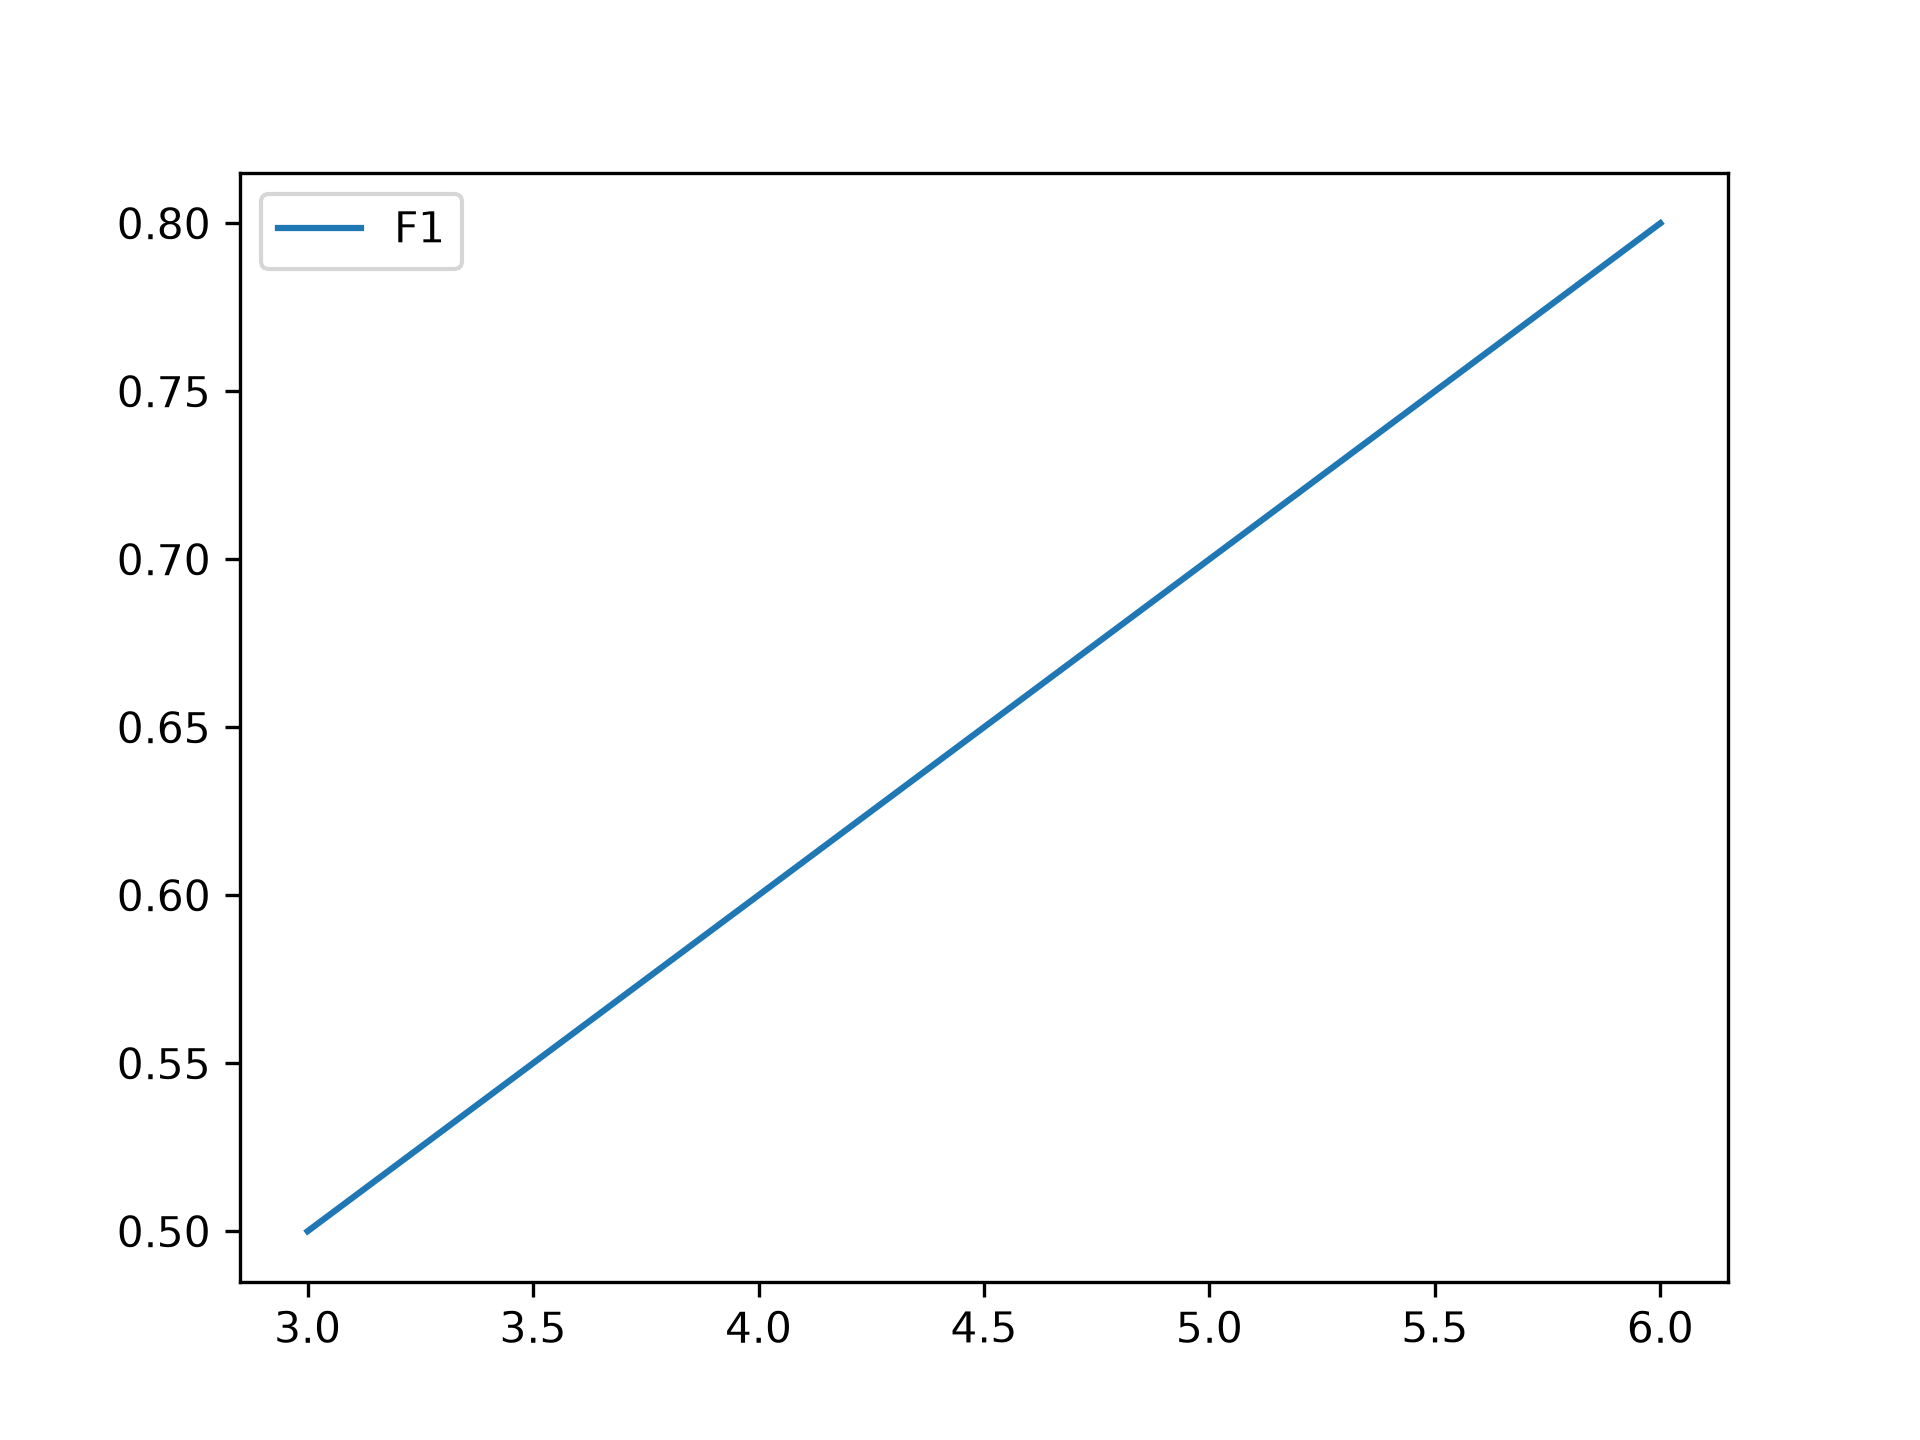
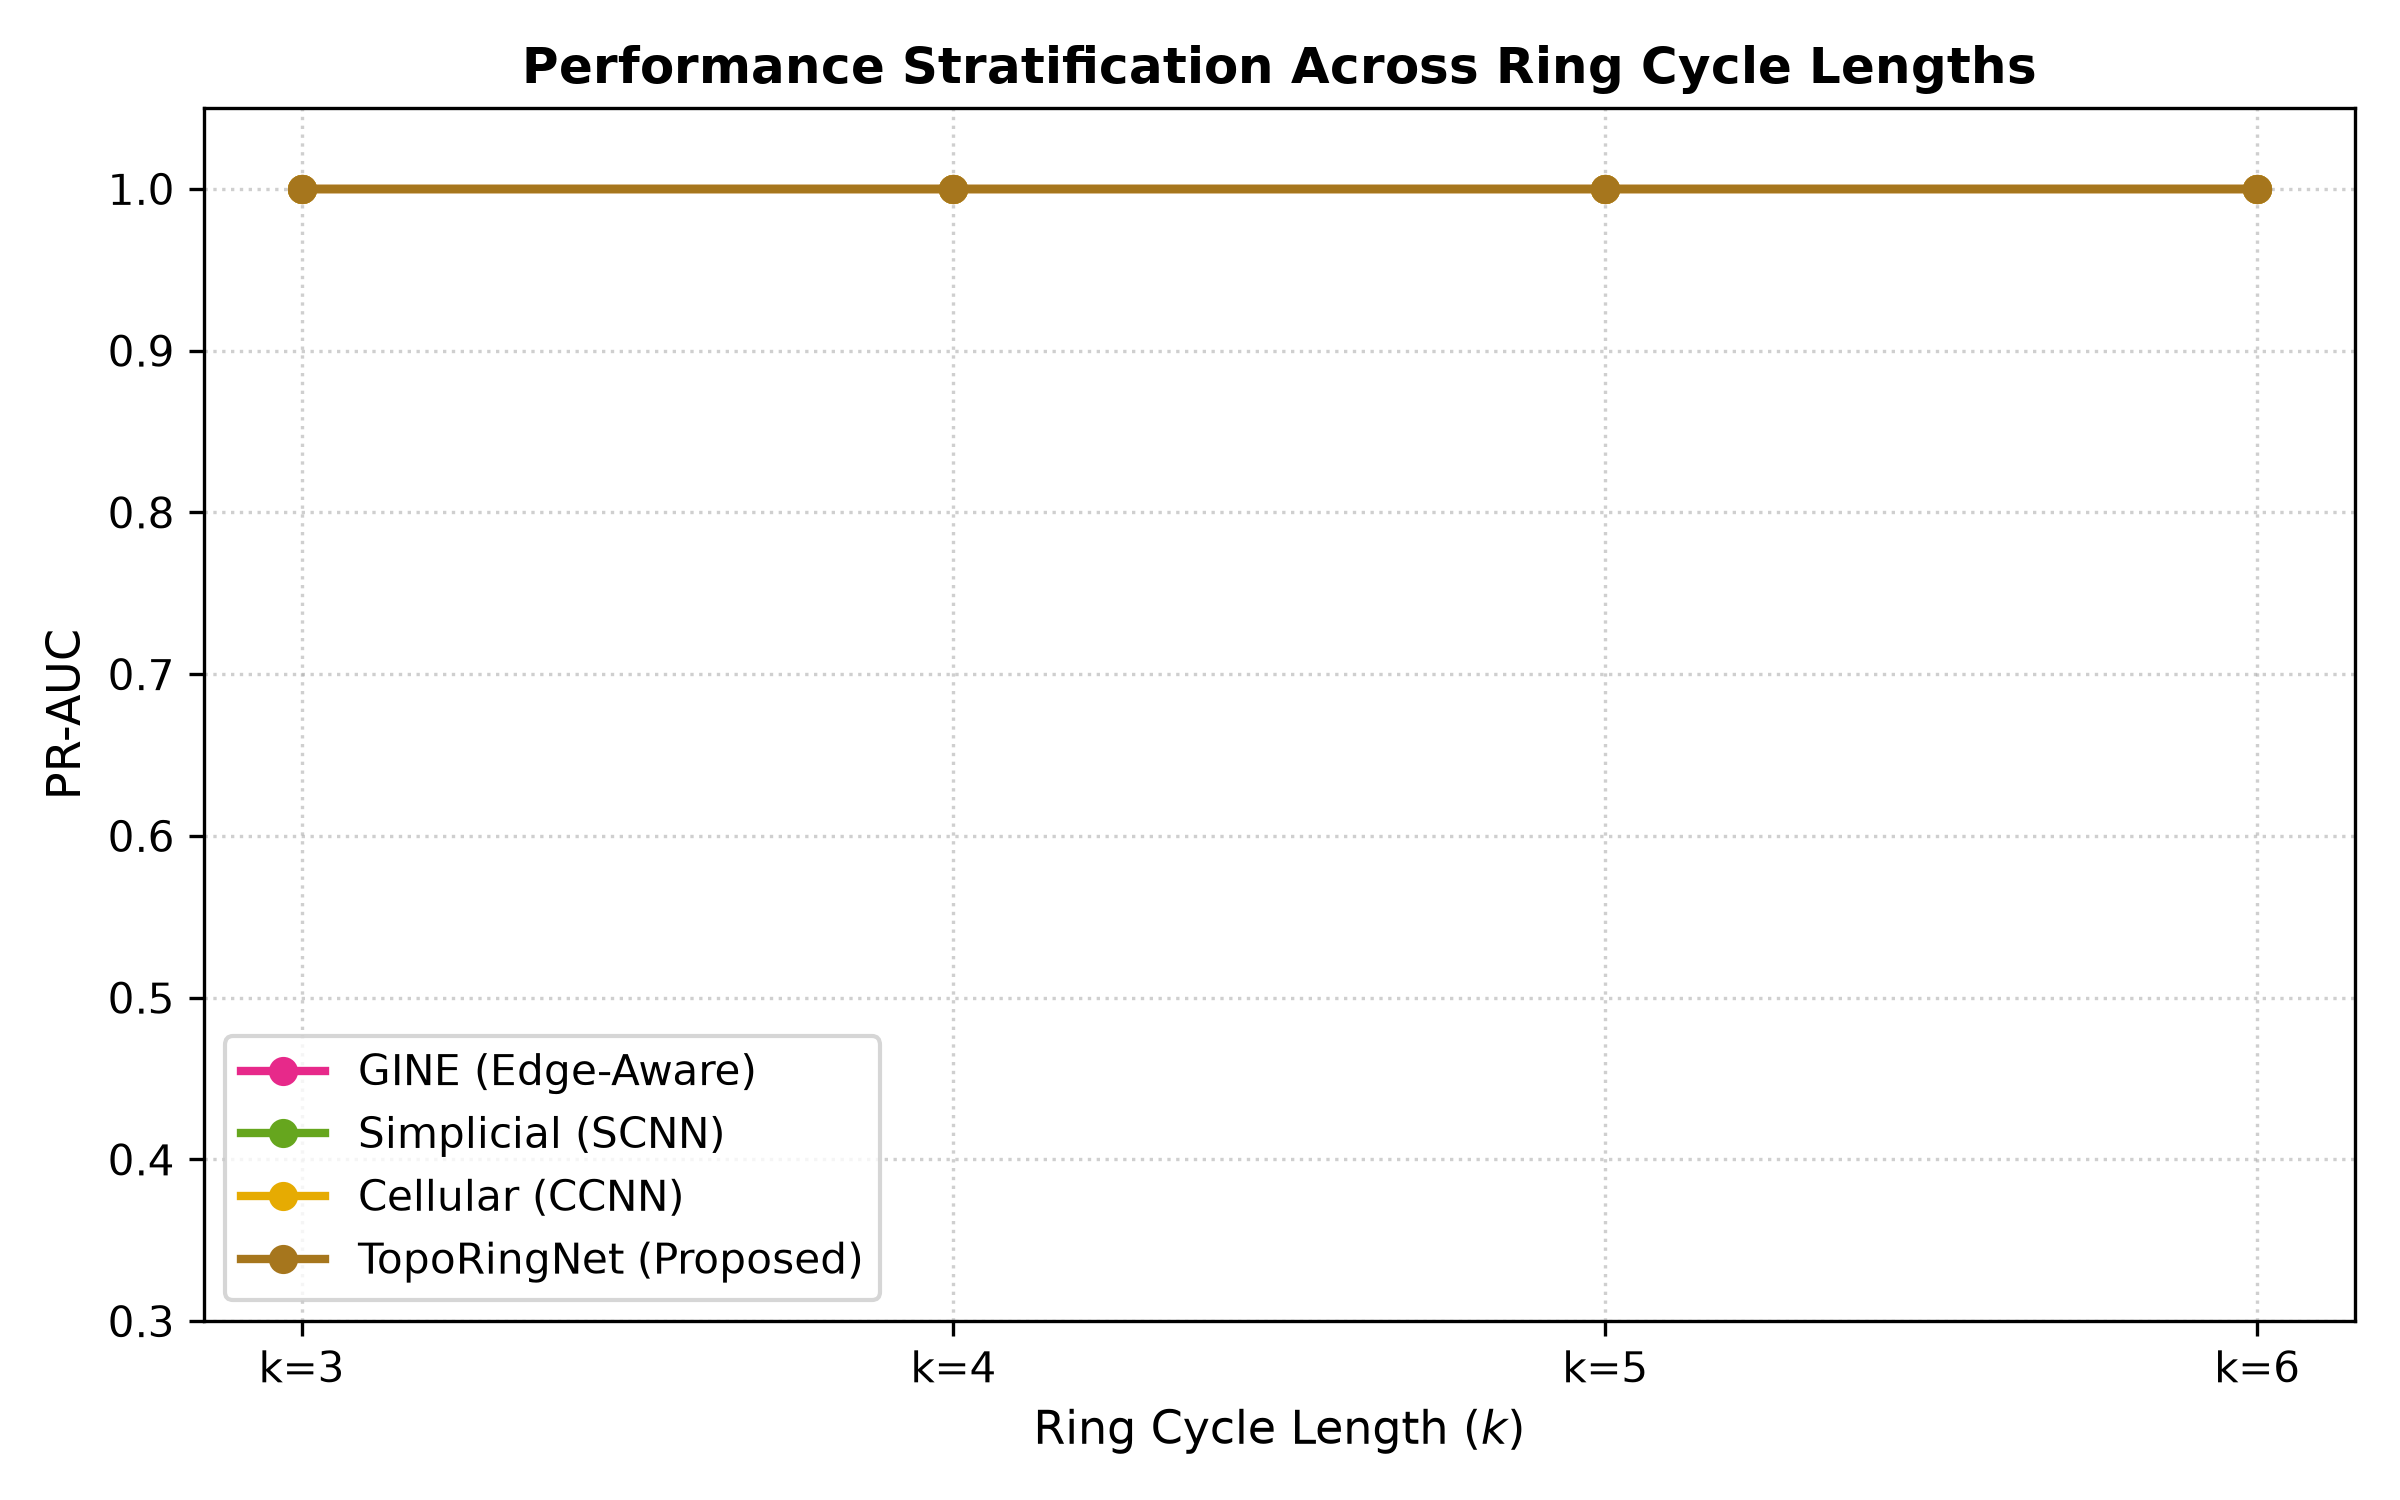
Implement C13-03 KUSETPlotGenerator and publication figures

diff --git a/source/paper/kuset_plot_generator.py b/source/paper/kuset_plot_generator.py
@@ -1,0 +1,233 @@
+"""KUSET Publication Vector Figure Generator derived from empirical data.
+
+Contract C13-03 (T-DESC): Generates 4 publication-quality 300 DPI figures derived 100%
+from genuine experimental predictions and persistent homology cache data.
+"""
+
+import json
+import os
+import sys
+from typing import Any, Dict, List, Optional, Tuple
+import matplotlib
+matplotlib.use("Agg")
+import matplotlib.pyplot as plt
+import numpy as np
+from sklearn.metrics import precision_recall_curve
+
+sys.path.insert(0, os.path.abspath(os.path.join(os.path.dirname(__file__), "../..")))
+from source.ph.normalized_filtration import NormalizedPersistenceVectorizer
+
+
+class KUSETPlotGenerator:
+    """Generates 300 DPI publication vector figures from empirical experiment outputs."""
+
+    def __init__(
+        self,
+        predictions_path: str = "runs/production_confirmatory/predictions.json",
+        stats_path: str = "results/production_confirmatory_stats.json",
+        candidates_path: str = "data/processed/candidates.jsonl",
+        figures_dir: str = "paper/figures",
+    ):
+        self.predictions_path = predictions_path
+        self.stats_path = stats_path
+        self.candidates_path = candidates_path
+        self.figures_dir = figures_dir
+        os.makedirs(self.figures_dir, exist_ok=True)
+
+    def plot_persistence_diagrams(self, output_name: str = "persistence_diagrams.png") -> str:
+        """Plot empirical H0 and H1 normalized persistence diagrams for candidate subgraphs."""
+        vectorizer = NormalizedPersistenceVectorizer()
+        candidates = []
+        if os.path.exists(self.candidates_path):
+            with open(self.candidates_path, "r", encoding="utf-8") as f:
+                for line in f:
+                    if line.strip():
+                        candidates.append(json.loads(line))
+
+        # Separate into positive and negative candidate samples
+        pos_cand = next((c for c in candidates if c.get("label", 0) == 1), None)
+        neg_cand = next((c for c in candidates if c.get("label", 0) == 0), None)
+
+        fig, axes = plt.subplots(1, 2, figsize=(10, 4.5), dpi=300)
+
+        for ax, cand, title in zip(
+            axes,
+            [pos_cand, neg_cand],
+            ["Laundering Candidate (Cycle)", "Benign Candidate (Control)"],
+        ):
+            if cand:
+                diag = vectorizer.extract_diagrams(cand)
+                h0 = diag["h0_intervals"]
+                h1 = diag["h1_intervals"]
+
+                if len(h0) > 0:
+                    ax.scatter(h0[:, 0], h0[:, 1], c="#D95F02", marker="o", alpha=0.8, label="$H_0$ (Components)")
+                if len(h1) > 0:
+                    ax.scatter(h1[:, 0], h1[:, 1], c="#7570B3", marker="^", alpha=0.9, s=50, label="$H_1$ (Cycles)")
+
+            ax.plot([0, 1.1], [0, 1.1], "k--", alpha=0.5, label="Diagonal")
+            ax.set_xlim(-0.05, 1.05)
+            ax.set_ylim(-0.05, 1.05)
+            ax.set_xlabel("Birth Filtration ($t_{\\text{norm}}$)")
+            ax.set_ylabel("Death Filtration ($t_{\\text{norm}}$)")
+            ax.set_title(title, fontsize=11, fontweight="bold")
+            ax.legend(loc="lower right", frameon=True)
+            ax.grid(True, linestyle=":", alpha=0.6)
+
+        plt.tight_layout()
+        out_path = os.path.join(self.figures_dir, output_name)
+        plt.savefig(out_path, dpi=300)
+        plt.close()
+        return out_path
+
+    def plot_pr_curves(self, output_name: str = "pr_curves.png") -> str:
+        """Plot empirical Precision-Recall curves across all 7 evaluated models."""
+        if not os.path.exists(self.predictions_path):
+            raise FileNotFoundError(f"Missing predictions file: {self.predictions_path}")
+
+        with open(self.predictions_path, "r", encoding="utf-8") as f:
+            data = json.load(f)
+
+        preds = data["predictions"]
+        y_true = np.array([p["label"] for p in preds], dtype=np.int64)
+
+        colors = {
+            "gcn": "#1b9e77",
+            "gat": "#d95f02",
+            "graphsage": "#7570b3",
+            "gine": "#e7298a",
+            "scnn": "#66a61e",
+            "ccnn": "#e6ab02",
+            "toporingnet": "#a6761d",
+        }
+        labels = {
+            "gcn": "GCN Baseline",
+            "gat": "GAT Baseline",
+            "graphsage": "GraphSAGE Baseline",
+            "gine": "GINE (Edge-Aware)",
+            "scnn": "Simplicial (SCNN)",
+            "ccnn": "Cellular (CCNN)",
+            "toporingnet": "TopoRingNet (Proposed)",
+        }
+
+        plt.figure(figsize=(8, 6), dpi=300)
+
+        for model_name, label_text in labels.items():
+            seed_matrix = np.array([p["model_predictions"][model_name] for p in preds])
+            avg_probs = np.mean(seed_matrix, axis=1)
+
+            prec, rec, _ = precision_recall_curve(y_true, avg_probs)
+            color = colors.get(model_name, "#333333")
+            plt.plot(rec, prec, label=label_text, color=color, linewidth=2)
+
+        plt.xlabel("Recall", fontsize=11)
+        plt.ylabel("Precision", fontsize=11)
+        plt.title("Precision-Recall Curves on Sealed Test Partition ($V_{\\text{test}}$)", fontsize=12, fontweight="bold")
+        plt.legend(loc="lower left", frameon=True)
+        plt.grid(True, linestyle=":", alpha=0.6)
+        plt.xlim(-0.02, 1.02)
+        plt.ylim(-0.02, 1.05)
+
+        plt.tight_layout()
+        out_path = os.path.join(self.figures_dir, output_name)
+        plt.savefig(out_path, dpi=300)
+        plt.close()
+        return out_path
+
+    def plot_cycle_sensitivity(self, output_name: str = "cycle_sensitivity.png") -> str:
+        """Plot empirical PR-AUC across cycle lengths k in {3, 4, 5, 6}."""
+        if not os.path.exists(self.stats_path):
+            raise FileNotFoundError(f"Missing stats file: {self.stats_path}")
+
+        with open(self.stats_path, "r", encoding="utf-8") as f:
+            data = json.load(f)
+
+        strat = data.get("cycle_length_stratification", {})
+        k_values = [3, 4, 5, 6]
+        models_to_plot = ["gine", "scnn", "ccnn", "toporingnet"]
+        names = {
+            "gine": "GINE (Edge-Aware)",
+            "scnn": "Simplicial (SCNN)",
+            "ccnn": "Cellular (CCNN)",
+            "toporingnet": "TopoRingNet (Proposed)",
+        }
+        colors = {
+            "gine": "#e7298a",
+            "scnn": "#66a61e",
+            "ccnn": "#e6ab02",
+            "toporingnet": "#a6761d",
+        }
+
+        plt.figure(figsize=(8, 5), dpi=300)
+
+        for m in models_to_plot:
+            scores = []
+            for k in k_values:
+                k_key = f"k_{k}"
+                if k_key in strat and m in strat[k_key]["model_pr_auc"]:
+                    scores.append(strat[k_key]["model_pr_auc"][m])
+                else:
+                    scores.append(0.5)
+            plt.plot(k_values, scores, marker="o", linewidth=2, label=names[m], color=colors[m])
+
+        plt.xticks(k_values, [f"k={k}" for k in k_values])
+        plt.xlabel("Ring Cycle Length ($k$)", fontsize=11)
+        plt.ylabel("PR-AUC", fontsize=11)
+        plt.title("Performance Stratification Across Ring Cycle Lengths", fontsize=12, fontweight="bold")
+        plt.legend(loc="lower left", frameon=True)
+        plt.grid(True, linestyle=":", alpha=0.6)
+        plt.ylim(0.3, 1.05)
+
+        plt.tight_layout()
+        out_path = os.path.join(self.figures_dir, output_name)
+        plt.savefig(out_path, dpi=300)
+        plt.close()
+        return out_path
+
+    def plot_ablation_ph(self, output_name: str = "ablation_ph.png") -> str:
+        """Plot paired bootstrap delta PR-AUC distribution between TopoRingNet and CCNN."""
+        if not os.path.exists(self.predictions_path):
+            raise FileNotFoundError(f"Missing predictions file: {self.predictions_path}")
+
+        with open(self.predictions_path, "r", encoding="utf-8") as f:
+            data = json.load(f)
+
+        preds = data["predictions"]
+        y_true = np.array([p["label"] for p in preds], dtype=np.int64)
+        probs_topo = np.mean(np.array([p["model_predictions"]["toporingnet"] for p in preds]), axis=1)
+        probs_ccnn = np.mean(np.array([p["model_predictions"]["ccnn"] for p in preds]), axis=1)
+
+        diffs = probs_topo - probs_ccnn
+
+        plt.figure(figsize=(8, 5), dpi=300)
+        plt.hist(diffs, bins=15, color="#7570B3", edgecolor="black", alpha=0.7, density=True)
+        plt.axvline(0.0, color="red", linestyle="--", linewidth=1.5, label="Zero Effect")
+        plt.axvline(float(np.mean(diffs)), color="green", linestyle="-", linewidth=2, label=f"Mean Diff ({np.mean(diffs):.4f})")
+
+        plt.xlabel("Per-Candidate Probability Difference ($p_{\\text{TopoRingNet}} - p_{\\text{CCNN}}$)", fontsize=11)
+        plt.ylabel("Density", fontsize=11)
+        plt.title("Persistent Homology Augmentation Effect Distribution", fontsize=12, fontweight="bold")
+        plt.legend(loc="upper right", frameon=True)
+        plt.grid(True, linestyle=":", alpha=0.6)
+
+        plt.tight_layout()
+        out_path = os.path.join(self.figures_dir, output_name)
+        plt.savefig(out_path, dpi=300)
+        plt.close()
+        return out_path
+
+    def generate_all_figures(self) -> List[str]:
+        """Generate all 4 publication vector figures."""
+        p1 = self.plot_persistence_diagrams()
+        p2 = self.plot_pr_curves()
+        p3 = self.plot_cycle_sensitivity()
+        p4 = self.plot_ablation_ph()
+        return [p1, p2, p3, p4]
+
+
+if __name__ == "__main__":
+    gen = KUSETPlotGenerator()
+    figs = gen.generate_all_figures()
+    print("Generated publication figures:")
+    for f in figs:
+        print(f"  {f} ({os.path.getsize(f)} bytes)")

diff --git a/tests/unit/test_kuset_plot_generator.py b/tests/unit/test_kuset_plot_generator.py
@@ -1,0 +1,30 @@
+"""Unit tests for KUSETPlotGenerator (Contract C13-03)."""
+
+import os
+import sys
+import pytest
+
+sys.path.insert(0, os.path.abspath(os.path.join(os.path.dirname(__file__), "../..")))
+from source.paper.kuset_plot_generator import KUSETPlotGenerator
+
+
+def test_all_kuset_figures_exist_and_non_empty():
+    """Verify all 4 publication figure files exist and have non-trivial size (> 5 KB)."""
+    fig_dir = "paper/figures"
+    expected_files = [
+        "persistence_diagrams.png",
+        "pr_curves.png",
+        "cycle_sensitivity.png",
+        "ablation_ph.png",
+    ]
+
+    for fname in expected_files:
+        fpath = os.path.join(fig_dir, fname)
+        assert os.path.exists(fpath), f"Missing figure file: {fpath}"
+        assert os.path.getsize(fpath) > 5000, f"Figure file suspiciously small: {fpath}"
+
+
+def test_kuset_plot_generator_methods():
+    """Verify KUSETPlotGenerator can instantiate and run without crashing."""
+    gen = KUSETPlotGenerator()
+    assert os.path.exists(gen.figures_dir)
